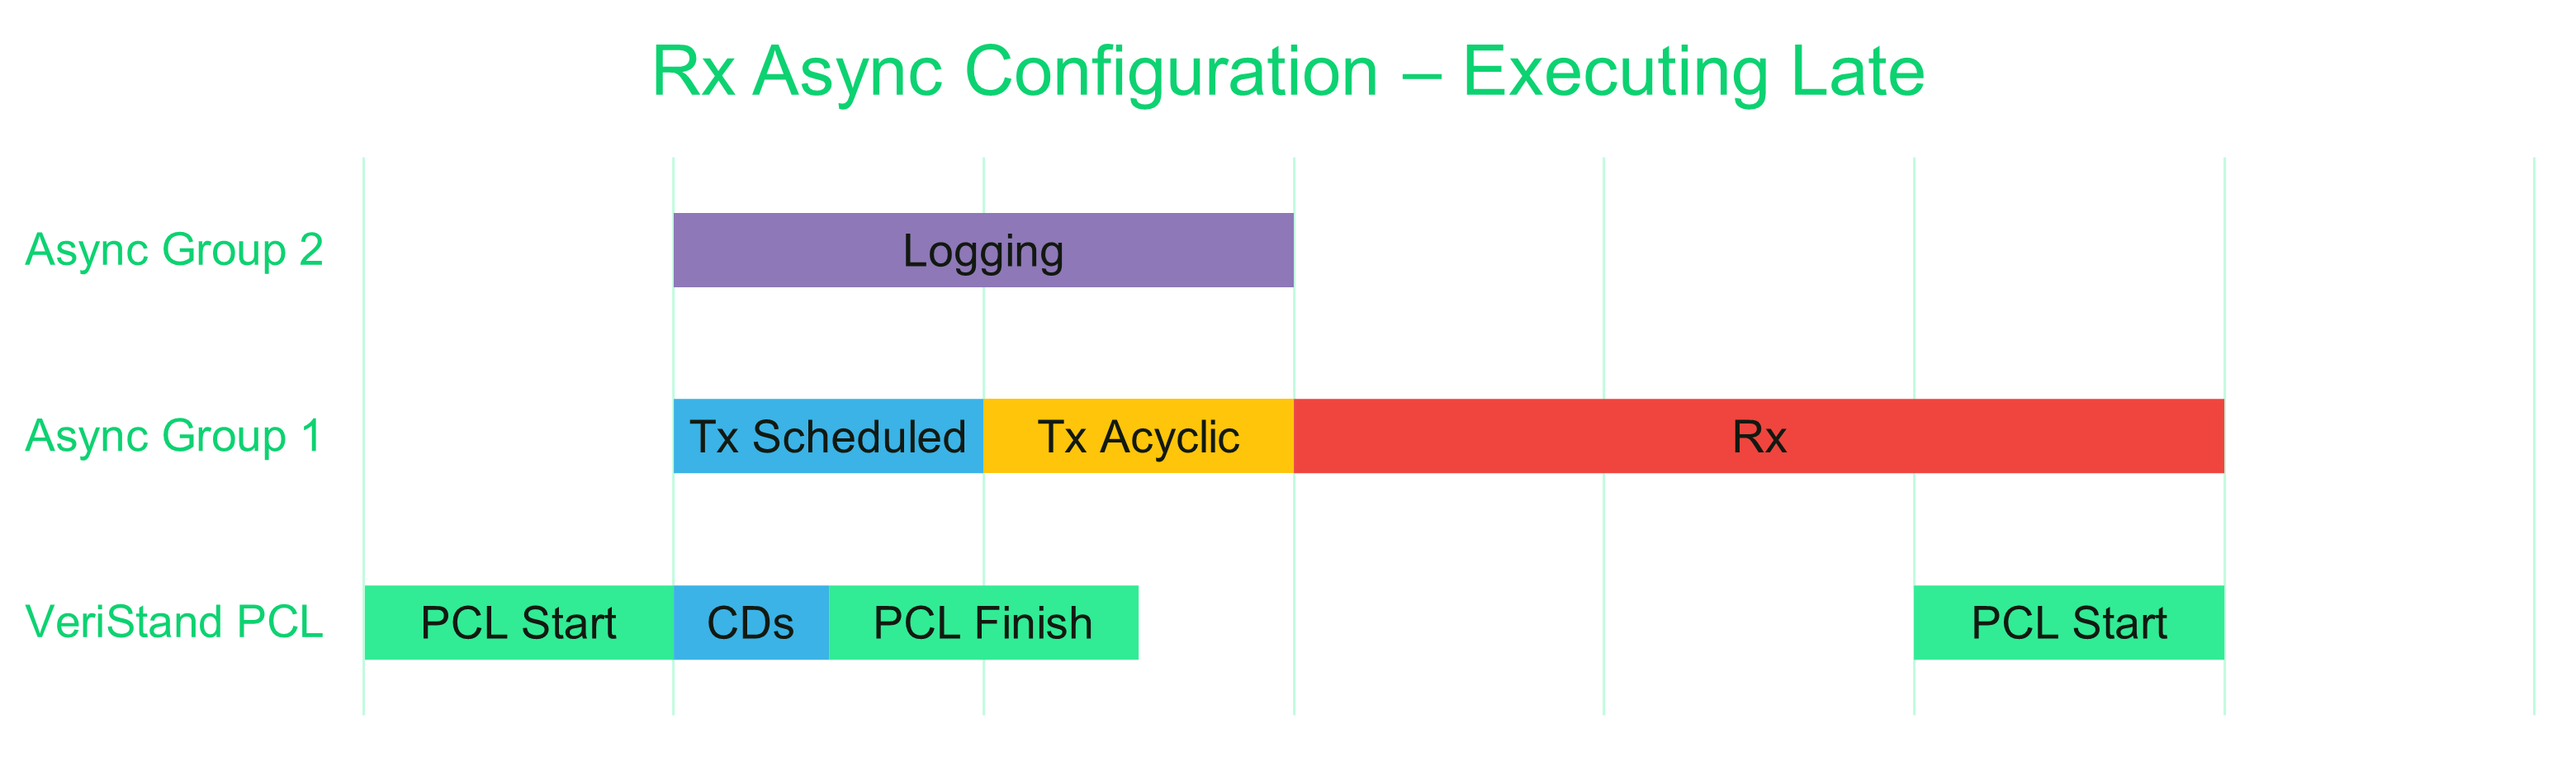
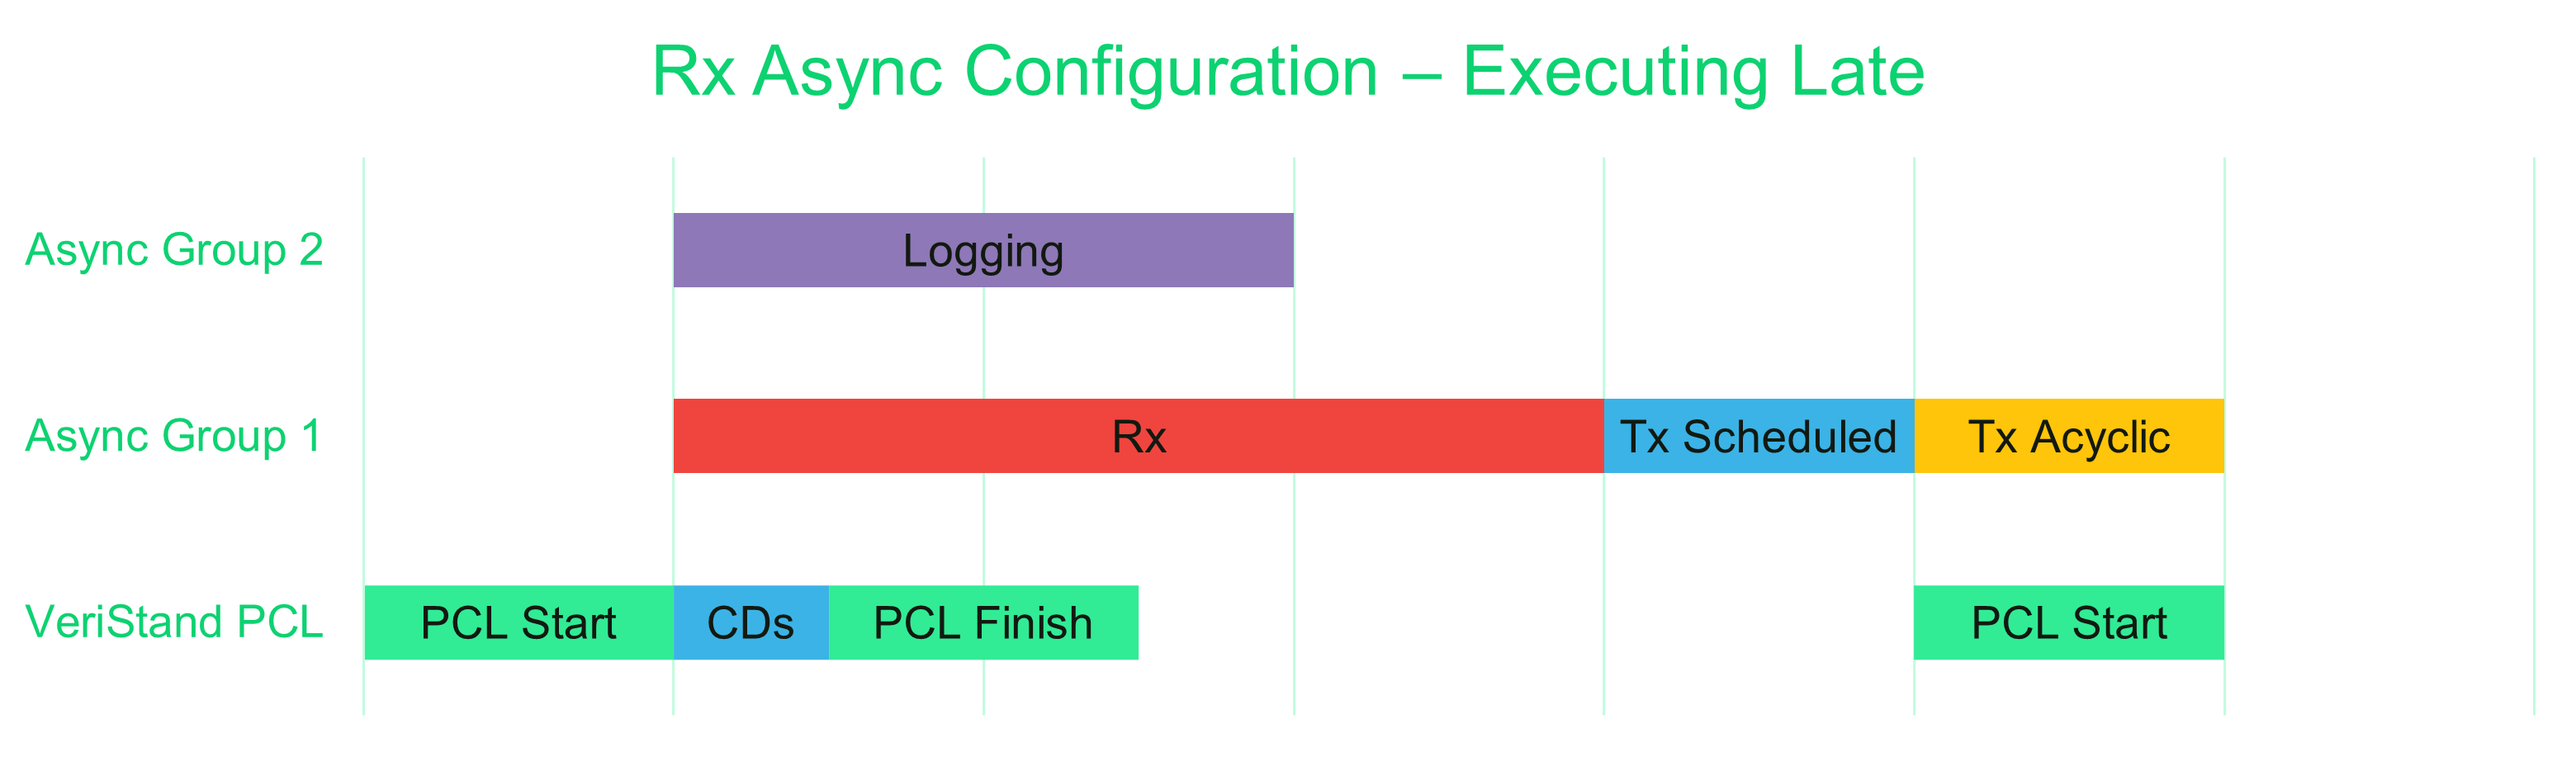
Fix Rx execution unit order when async

Changed region(s): [[0.2487, 0.5191, 0.5285, 0.6412], [0.6218, 0.5191, 0.8705, 0.6412]]

diff --git a/Docs/Theory of Operations/Theory of Operations.md b/Docs/Theory of Operations/Theory of Operations.md
@@ -52,7 +52,7 @@ When the PCL runs late, VeriStand will report that the actual loop rate is lower
 
 ### Rx Configured as Asynchronous
 
-In order to maximize the performance of the rest of the system, the Execution Unit and Factory design pattern allows simple modification of the execution mode of each execution unit. This custom device has a configuration option to run the Rx Execution Unit as Asynchronous. When selected, the Rx Execution unit executes in Async Group 1 after the Tx Execution Units have completed.
+In order to maximize the performance of the rest of the system, the Execution Unit and Factory design pattern allows simple modification of the execution mode of each execution unit. This custom device has a configuration option to run the Rx Execution Unit as Asynchronous. When selected, the Rx Execution unit executes in Async Group 1.
 
 This configuration is advantageous when trying to free up high-priority CPU time to maintain PCL stability. The plot below shows the change in execution mode.
 
